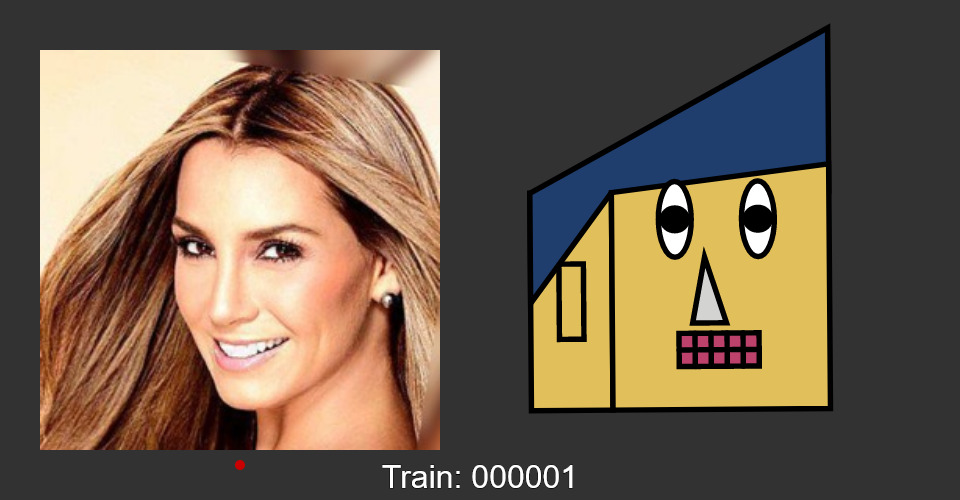
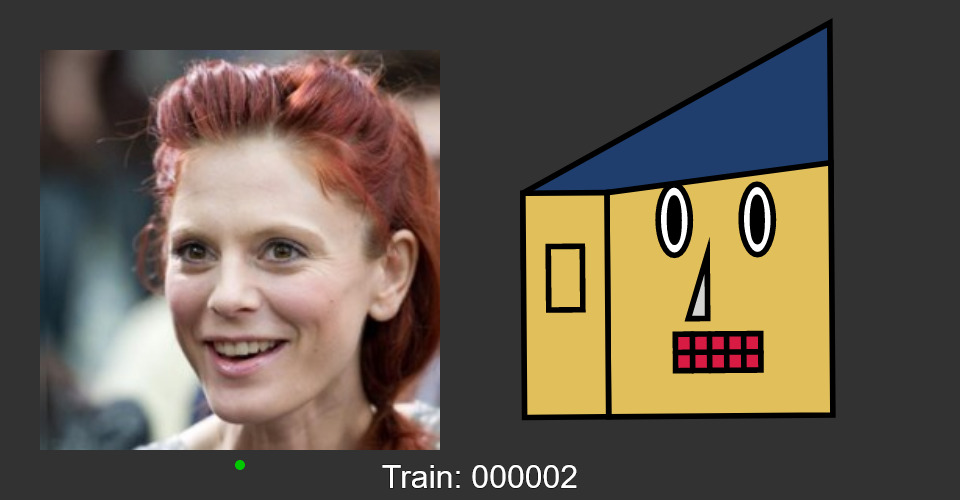
changed ear mapping and started training.

diff --git a/myFace.js b/myFace.js
@@ -7,8 +7,8 @@ const black=[0,0,0];
 const grey=[211,211,209];
 const white=[255,255,255];
 const darkGrey=[110,110,110];
-const pink=[188,66,108];
-
+const pink=[216,27,67];
+//const pink=[188,66,108];
 
 
 //sideburns
@@ -28,8 +28,8 @@ const minInnerEyeHeight=.3;
 const maxInnerEyeHeight=.63;
 
 //ear
-const minEarY=-1*faceScale;
-const maxEarY=1*faceScale;
+const minEarY=-2*faceScale;
+const maxEarY=2*faceScale;
 const earShapes=["circle","triangle","square","none"];
 
 //mouth
@@ -98,23 +98,29 @@ class myFace{
   drawFace(positions){
     this.positions=positions;
     strokeWeight(myStrokeWeight);
-    this.drawEar();
     this.drawHair();
     this.drawSkin();
-    this.drawMouth();
     this.drawNose();
+    this.drawEar();
+   
+    this.drawMouth();
+    
     this.drawEyes();
     
     
   }
   drawEar(){
+
     stroke(0);
     rectMode(CORNER);
     fill(this.skinColour);
     rect(-this.headWidth/2-this.earWidth,-this.headHeight/2,this.earWidth,this.headHeight);
     fill(this.innerEarCol);
-    this.innerEarWidth=.7*(this.positions.left_eyebrow[this.positions.left_eyebrow.length-1][0]-this.positions.left_eyebrow[0][0]);
-    this.innerEarHeight=1.1*(this.positions.right_eyebrow[this.positions.right_eyebrow.length-1][0]-this.positions.right_eyebrow[0][0]);
+    // this.innerEarWidth=.7*(this.positions.left_eyebrow[this.positions.left_eyebrow.length-1][0]-this.positions.left_eyebrow[0][0]);
+    // this.innerEarHeight=1.1*(this.positions.right_eyebrow[this.positions.right_eyebrow.length-1][0]-this.positions.right_eyebrow[0][0]);
+    this.innerEarWidth=this.positions.nose_tip[this.positions.nose_tip.length-1][0]-this.positions.nose_tip[0][0];
+    this.innerEarHeight=this.positions.nose_tip[2][1]-this.positions.nose_bridge[0][1];
+    
     if(this.earShape=="circle"){
       ellipseMode(CENTER);
       ellipse(-this.headWidth/2-this.earWidth/2,this.earY,this.innerEarWidth,this.innerEarHeight);

diff --git a/README.md b/README.md
@@ -1,1 +1,1 @@
-I have added an additional parameter to represent the lip colour which can either be red or pink which I will use to represent if the person is mascinline or feminine. I did this as I have ideas on how I want to train the other parameters but I think the model will have issues if presented with a male and female that have similar features
+I trained a few but then it started to occur to me that the size of the ear wasn't working mapped to the eyebrows. As the size was deviating significantly from the person's ear at times. So I changed it so the ear was mapped to the nose's width and height. This probably wasn't the biggest deal as people don't recongise each other based on ears normally but it was throwing me off as there was a small fat ear drawn on someone with a long thin one which would make it harder to recongise them. The nose mapping to it isn't perfect either but gets much closer than the eyebrows at approximating the size to the extent it isn't noticable.    
